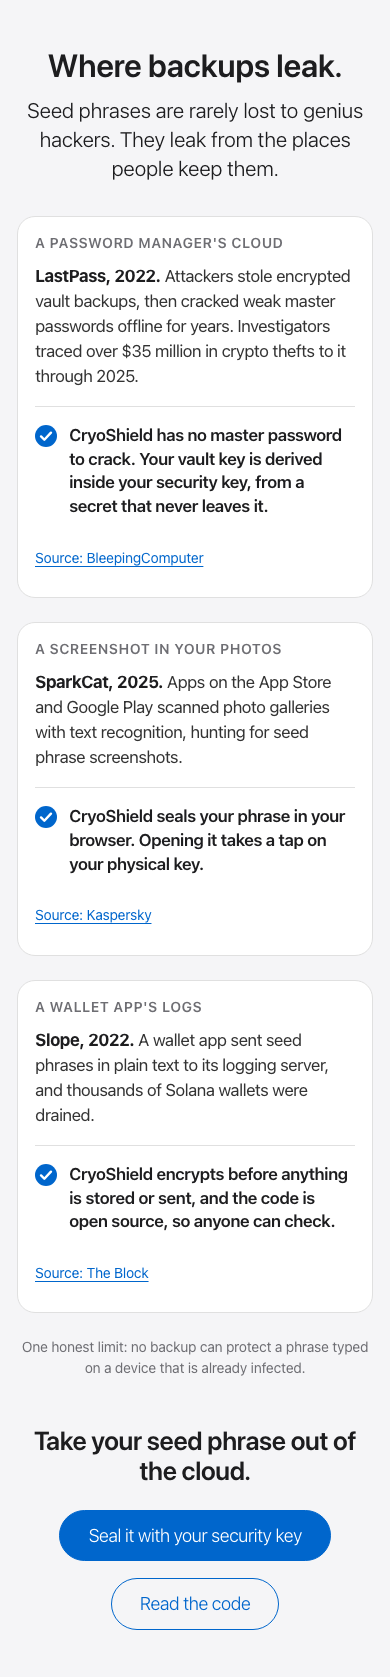
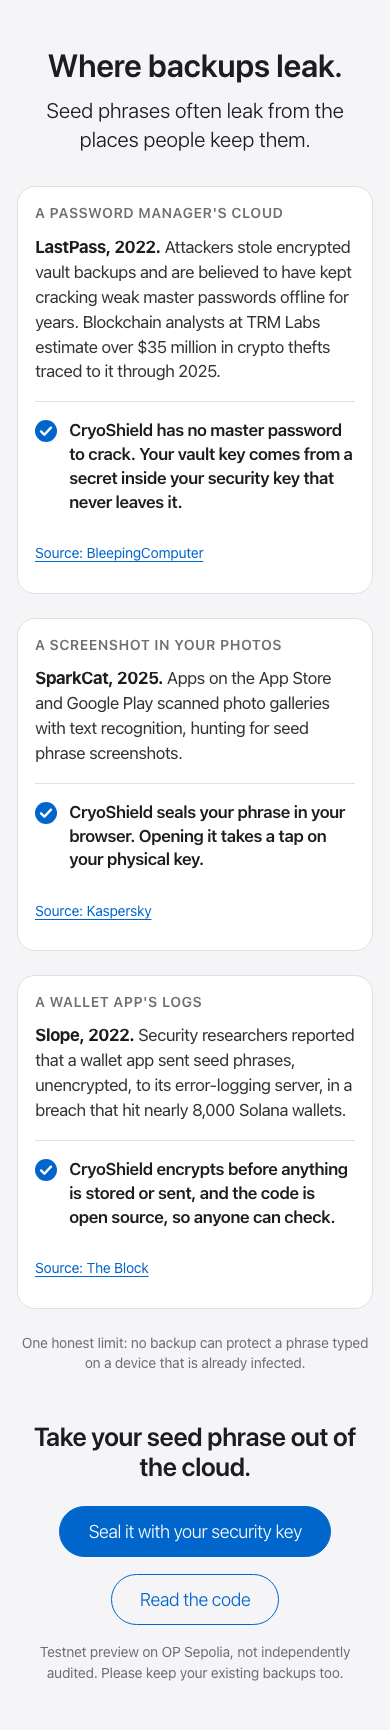
fix(web): tighten breach copy to its sources and add the testnet caveat
ECC review: the vault key is derived in the browser from the security
key's PRF output, so say it comes from a secret inside the key; report
Slope as researchers did; attribute the LastPass estimate to TRM Labs;
the call to action carries the testnet caveat.

Changed region(s): [[0.0615, 0.3721, 0.9538, 0.9922], [0.0923, 0.031, 0.9231, 0.3411], [0.1231, 0.9302, 0.1538, 0.9612]]

diff --git a/apps/web/index.html b/apps/web/index.html
@@ -153,12 +153,12 @@
       <!-- WHERE BACKUPS LEAK (light tile, not a scene): cited incidents, sources checked 2026-10-09 (add-landing-breaches) -->
       <section id="breaches" class="tile tile-parchment breaches" aria-labelledby="breaches-title">
         <h2 id="breaches-title" class="tile-title">Where backups leak.</h2>
-        <p class="tile-lead">Seed phrases are rarely lost to genius hackers. They leak from the places people keep them.</p>
+        <p class="tile-lead">Seed phrases often leak from the places people keep them.</p>
         <div class="breach-grid">
           <article class="breach-card" aria-labelledby="breach-lastpass">
             <h3 id="breach-lastpass" class="breach-label">A password manager's cloud</h3>
-            <p class="breach-incident"><strong>LastPass, 2022.</strong> Attackers stole encrypted vault backups, then cracked weak master passwords offline for years. Investigators traced over $35 million in crypto thefts to it through 2025.</p>
-            <p class="breach-helps"><svg class="breach-check" viewBox="0 0 20 20" aria-hidden="true" focusable="false"><circle cx="10" cy="10" r="10" /><path d="M5.5 10.4l3 3 6-6.4" /></svg><span>CryoShield has no master password to crack. Your vault key is derived inside your security key, from a secret that never leaves it.</span></p>
+            <p class="breach-incident"><strong>LastPass, 2022.</strong> Attackers stole encrypted vault backups and are believed to have kept cracking weak master passwords offline for years. Blockchain analysts at TRM Labs estimate over $35 million in crypto thefts traced to it through 2025.</p>
+            <p class="breach-helps"><svg class="breach-check" viewBox="0 0 20 20" aria-hidden="true" focusable="false"><circle cx="10" cy="10" r="10" /><path d="M5.5 10.4l3 3 6-6.4" /></svg><span>CryoShield has no master password to crack. Your vault key comes from a secret inside your security key that never leaves it.</span></p>
             <a class="breach-source" href="https://www.bleepingcomputer.com/news/security/cryptocurrency-theft-attacks-traced-to-2022-lastpass-breach/" rel="noopener noreferrer">Source: BleepingComputer</a>
           </article>
           <article class="breach-card" aria-labelledby="breach-sparkcat">
@@ -169,7 +169,7 @@
           </article>
           <article class="breach-card" aria-labelledby="breach-slope">
             <h3 id="breach-slope" class="breach-label">A wallet app's logs</h3>
-            <p class="breach-incident"><strong>Slope, 2022.</strong> A wallet app sent seed phrases in plain text to its logging server, and thousands of Solana wallets were drained.</p>
+            <p class="breach-incident"><strong>Slope, 2022.</strong> Security researchers reported that a wallet app sent seed phrases, unencrypted, to its error-logging server, in a breach that hit nearly 8,000 Solana wallets.</p>
             <p class="breach-helps"><svg class="breach-check" viewBox="0 0 20 20" aria-hidden="true" focusable="false"><circle cx="10" cy="10" r="10" /><path d="M5.5 10.4l3 3 6-6.4" /></svg><span>CryoShield encrypts before anything is stored or sent, and the code is open source, so anyone can check.</span></p>
             <a class="breach-source" href="https://www.theblock.co/post/161425/slope-wallet-provider-saved-user-seed-phrases-in-plain-text-solana-security-researchers-find" rel="noopener noreferrer">Source: The Block</a>
           </article>
@@ -181,6 +181,7 @@
             <a class="pill pill-primary pill-large" href="/app/">Seal it with your security key</a>
             <a class="pill pill-secondary pill-large" href="https://github.com/prix0007/cryoshield" rel="noopener noreferrer">Read the code</a>
           </div>
+          <p class="fine fine-light">Testnet preview on OP Sepolia, not independently audited. Please keep your existing backups too.</p>
         </div>
       </section>
 

diff --git a/apps/web/test/landing/content.test.ts b/apps/web/test/landing/content.test.ts
@@ -253,7 +253,7 @@ describe('"Where backups leak." breaches tile (add-landing-breaches 1.1)', () =>
     expect(tile.classList.contains('tile')).toBe(true);
     expect(tile.classList.contains('tile-parchment')).toBe(true);
     expect(tile.getAttribute('aria-labelledby')).toBe(tile.querySelector('h2')?.id);
-    expect(norm(tile.querySelector('.tile-lead'))).toBe('Seed phrases are rarely lost to genius hackers. They leak from the places people keep them.');
+    expect(norm(tile.querySelector('.tile-lead'))).toBe('Seed phrases often leak from the places people keep them.');
   });
 
   it('has three incident cards with a label, the incident, a distinct helps line and a named source', () => {
@@ -269,8 +269,8 @@ describe('"Where backups leak." breaches tile (add-landing-breaches 1.1)', () =>
     expect(got).toEqual([
       {
         label: "A password manager's cloud",
-        incident: 'LastPass, 2022. Attackers stole encrypted vault backups, then cracked weak master passwords offline for years. Investigators traced over $35 million in crypto thefts to it through 2025.',
-        helps: 'CryoShield has no master password to crack. Your vault key is derived inside your security key, from a secret that never leaves it.',
+        incident: 'LastPass, 2022. Attackers stole encrypted vault backups and are believed to have kept cracking weak master passwords offline for years. Blockchain analysts at TRM Labs estimate over $35 million in crypto thefts traced to it through 2025.',
+        helps: 'CryoShield has no master password to crack. Your vault key comes from a secret inside your security key that never leaves it.',
         source: 'Source: BleepingComputer',
         href: BREACH_SOURCES[0].href,
       },
@@ -283,7 +283,7 @@ describe('"Where backups leak." breaches tile (add-landing-breaches 1.1)', () =>
       },
       {
         label: "A wallet app's logs",
-        incident: 'Slope, 2022. A wallet app sent seed phrases in plain text to its logging server, and thousands of Solana wallets were drained.',
+        incident: 'Slope, 2022. Security researchers reported that a wallet app sent seed phrases, unencrypted, to its error-logging server, in a breach that hit nearly 8,000 Solana wallets.',
         helps: 'CryoShield encrypts before anything is stored or sent, and the code is open source, so anyone can check.',
         source: 'Source: The Block',
         href: BREACH_SOURCES[2].href,
@@ -314,6 +314,10 @@ describe('"Where backups leak." breaches tile (add-landing-breaches 1.1)', () =>
       ['Read the code', REPO, false],
     ]);
     expect(tile.querySelector(`a.pill[href="${REPO}"]`)?.getAttribute('rel')).toBe('noopener noreferrer');
+    // ECC review: the call to action carries the same testnet caveat as the final CTA.
+    const caveat = tile.querySelector('.breach-cta .fine');
+    expect(norm(caveat)).toBe('Testnet preview on OP Sepolia, not independently audited. Please keep your existing backups too.');
+    expect(caveat?.compareDocumentPosition(tile.querySelector('.breach-cta .ctas')!)).toBe(Node.DOCUMENT_POSITION_PRECEDING);
   });
 
   it('makes no banned or general anti-hacking claim', () => {

diff --git a/apps/web/src/landing/landing.css b/apps/web/src/landing/landing.css
@@ -1220,6 +1220,11 @@
 .breach-cta .ctas {
   margin-bottom: 0;
 }
+/* The testnet caveat under the pills (ECC review): centred under them, like the final call to action's note. */
+.breach-cta .fine {
+  margin: var(--space-md) auto 0;
+  text-align: center;
+}
 @media (max-width: 833px) {
   .breach-grid {
     grid-template-columns: minmax(0, 1fr);

diff --git a/openspec/changes/add-landing-breaches/design.md b/openspec/changes/add-landing-breaches/design.md
@@ -39,9 +39,9 @@ the light theme and dark in the dark theme with no new tokens.
 |---|---|---|---|
 | LastPass, 2022 | Encrypted vault backups stolen; weak master passwords cracked offline; over $35 million in crypto thefts traced through 2025 | BleepingComputer, https://www.bleepingcomputer.com/news/security/cryptocurrency-theft-attacks-traced-to-2022-lastpass-breach/ | TRM Labs traced $28 million (late 2024 to early 2025) plus $7 million (September 2025); backups stolen from GoTo cloud storage; weak or reused master passwords vulnerable to offline cracking, ongoing since the breach. |
 | SparkCat, 2025 | Store apps scanned galleries with text recognition for seed phrase screenshots | Kaspersky, https://www.kaspersky.com/about/press-releases/kaspersky-discovers-new-crypto-stealing-trojan-in-appstore-and-google-play | Reported February 2025; apps in the App Store and Google Play (active since at least March 2024) used OCR / machine learning to scan galleries for recovery-phrase screenshots. "2025" is the year it was disclosed. |
-| Slope, 2022 | Seed phrases sent in plain text to a logging server; thousands of Solana wallets drained | The Block, https://www.theblock.co/post/161425/slope-wallet-provider-saved-user-seed-phrases-in-plain-text-solana-security-researchers-find | Otter found the mobile app sent mnemonics (over TLS, unencrypted by the app) to its Sentry server, stored as readable text; nearly 8,000 Solana wallets affected. |
+| Slope, 2022 | Researchers reported seed phrases sent unencrypted to an error-logging server; nearly 8,000 Solana wallets hit | The Block, https://www.theblock.co/post/161425/slope-wallet-provider-saved-user-seed-phrases-in-plain-text-solana-security-researchers-find | Otter found the mobile app sent mnemonics (over TLS, unencrypted by the app) to its Sentry server, stored as readable text; nearly 8,000 Solana wallets affected. |
 
-"Plain text" follows the source's own headline: the phrases were not encrypted by the app (the transport was TLS).
+The copy says "unencrypted" (by the app; the transport was TLS) and reports it as the researchers' finding, as the source does.
 
 ## Honesty review
 
@@ -63,3 +63,19 @@ the light theme and dark in the dark theme with no new tokens.
 Not crypto, contracts, the paymaster, secret handling or CI. The change adds static HTML and CSS only. CSP unchanged
 (no inline style or script; `scripts/csp-check` and `verify-build` stay green). Links use `rel="noopener noreferrer"`
 and no `target`. N/A beyond this note.
+
+## ECC review (2026-10-09)
+
+The code review approved the change with three MEDIUM copy-accuracy findings, all fixed:
+
+- The LastPass "helps" line said the vault key "is derived inside your security key". The key returns a PRF output to
+  the browser, which derives the wrap key with HKDF; only the credential secret stays inside the key. The line now
+  says "Your vault key comes from a secret inside your security key that never leaves it."
+- The Slope card was firmer than The Block (which reports researchers' findings and "nearly 8,000" wallets, with no
+  drained count). It now says "Security researchers reported that a wallet app sent seed phrases, unencrypted, to its
+  error-logging server, in a breach that hit nearly 8,000 Solana wallets."
+- The call to action lacked the testnet caveat every other conversion point carries. It now ends with "Testnet
+  preview on OP Sepolia, not independently audited. Please keep your existing backups too."
+
+LOW findings also applied: the LastPass card attributes the estimate to TRM Labs and says cracking is "believed" to
+have continued, and the lead no longer makes the unsourced "rarely lost to genius hackers" claim.

diff --git a/openspec/changes/add-landing-breaches/proposal.md b/openspec/changes/add-landing-breaches/proposal.md
@@ -21,7 +21,7 @@ source). Pairing them with a call to action gives visitors a reason to act now.
   `aria-hidden`), and a source link ("Source: BleepingComputer", "Source: Kaspersky", "Source: The Block"):
   - LastPass, 2022 (stolen encrypted vault backups, weak master passwords cracked offline);
   - SparkCat, 2025 (store apps scanning photo galleries for seed phrase screenshots);
-  - Slope, 2022 (a wallet app sending seed phrases in plain text to its logging server).
+  - Slope, 2022 (researchers reported a wallet app sending seed phrases, unencrypted, to its error-logging server).
 - **One honest limit** under the cards: no backup can protect a phrase typed on an infected device.
 - **A closing call to action**: "Take your seed phrase out of the cloud." with two pills, "Seal it with your security
   key" (`/app/`) and "Read the code" (the GitHub repository).
